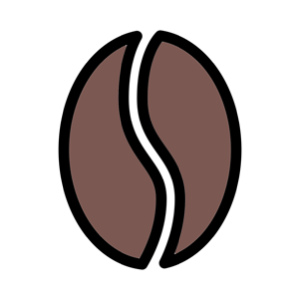
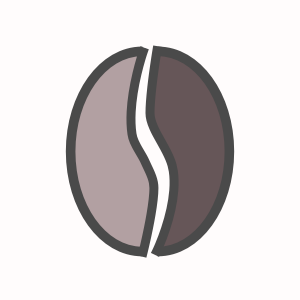
Updated design to new color scheme. Enabled the app store download button.

Changed region(s): [[0.18, 0.09, 0.81, 0.9]]

diff --git a/css/gumby.css b/css/gumby.css
@@ -8939,10 +8939,10 @@ input::-moz-focus-inner {
   -moz-background-size: cover;
   -o-background-size: cover;
   background-size: cover;
-  background-color: #C82506;
+  background-color: #665658;
   width: 100%;
   color: #F5F5F5;
-  border-top: 5px solid #28170D;
+  border-top: 5px solid #B2A0A2;
 }
 
 .logo {
@@ -9135,8 +9135,8 @@ input::-moz-focus-inner {
   }
 }
 .features-item:hover .features-circle {
-  background-color: #C82506;
-  border-color: #9C2506;
+  background-color: #B2A0A2;
+  border-color: #665658;
   border-width: 8px;
 }
 .features-item:hover .features-circle-icon {
@@ -9170,11 +9170,11 @@ input::-moz-focus-inner {
   display: block;
   position: relative;
   border-radius: 50%;
-  background-color: #C82506;
+  background-color: #665658;
   width: 180px;
   height: 180px;
   margin: 0 auto 30px auto;
-  border: 6px solid rgba(144, 41, 77, 0.3);
+  border: 6px solid rgba(178, 160, 162, 0.3);
   -webkit-transition: all 0.3s ease;
   -moz-transition: all 0.3s ease;
   -o-transition: all 0.3s ease;
@@ -9284,6 +9284,10 @@ input::-moz-focus-inner {
   }
 }
 
+.appstore-logo {
+	margin-top: 50px;
+}
+
 .testimonial-details {
   width: 70%;
   padding-left: 25px;
@@ -9313,7 +9317,7 @@ input::-moz-focus-inner {
 *****************************************************/
 .section-signup {
 	
-  background-color: #C82506;
+  background-color: #665658;
   text-align: center;
 }
 
@@ -9337,7 +9341,7 @@ input::-moz-focus-inner {
   margin-right: 3%;
 }
 .signup-form2 .input-side:focus {
-  border-color: #9C2506;
+  border-color: #B2A0A2;
 }
 @media screen and (max-width: 540px) {
   .signup-form2 .input-side {
@@ -9346,16 +9350,16 @@ input::-moz-focus-inner {
 }
 .signup-form2 .btn-side {
   width: 30%;
-  background-color: #9C2506;
+  background-color: #B2A0A2;
   border: 5px solid #fff;
 }
 .signup-form2 .btn-side:hover {
-  border-color: #9C2506;
-  background-color: #C82506;
+  border-color: #D8CBCD;
+  background-color: #665658;
 }
 .signup-form2 .btn-side:active {
-  border-color: #C82506;
-  background-color: #9C2506;
+  border-color: #D8CBCD;
+  background-color: #B2A0A2;
 }
 @media screen and (max-width: 540px) {
   .signup-form2 .btn-side {
@@ -9372,7 +9376,7 @@ input::-moz-focus-inner {
   margin-right: 3%;
 }
 .signup-form .input-side:focus {
-  border-color: #5680cf;
+  border-color: #B2A0A2;
 }
 @media screen and (max-width: 540px) {
   .signup-form .input-side {
@@ -9385,12 +9389,12 @@ input::-moz-focus-inner {
   border: 5px solid #fff;
 }
 .signup-form .btn-side:hover {
-  border-color: #c43869;
+  border-color: #B2A0A2;
   background-color: #c43869;
 }
 .signup-form .btn-side:active {
-  border-color: #a8305a;
-  background-color: #a8305a;
+  border-color: #B2A0A2;
+  background-color: #B2A0A2;
 }
 @media screen and (max-width: 540px) {
   .signup-form .btn-side {
@@ -9403,11 +9407,11 @@ input::-moz-focus-inner {
 * Site Footer 
 *****************************************************/
 .site-footer {
-  background-color: #28170D;
+  background-color: #B2A0A2;
   padding: 50px 0;
 }
 .site-footer h1, .site-footer h2, .site-footer h3, .site-footer h4, .site-footer h5, .site-footer h6 {
-  color: #f9e9ee;
+  color: #FFFCFC;
 }
 
 .footer-info {
@@ -9419,7 +9423,7 @@ input::-moz-focus-inner {
     font-size: 10px;
 }
 .footer-support:hover p{
-   color: #C82506;
+   color: #D8CBCD;
 }
 .footer-copyright {
   font-weight: 300;
@@ -9500,7 +9504,7 @@ footer-support-link:hover {
   transition: color 0.3s ease;
 }
 .social-link:hover {
-  color: #9C2506;
+  color: #D8CBCD;
 }
 
 .social-engagement-wrapper {

diff --git a/index.html b/index.html
@@ -66,7 +66,7 @@
 				
 				<div class="mediabox-logo"><img src="img/logo300x300.png" alt=""></div>
 				<h1 class="logo">FineGrind</span></h1>
-				<h2 class="logo">(Coming Soon)</h2>
+				<!-- <h2 class="logo">(Coming Soon)</h2> -->
 				<p>Track and rate your coffee bean purchases in one place, helping you remember what you love and what you'd rather leave on the shelf.
 
 					<br>
@@ -114,10 +114,10 @@
 			<!-- START: Graphic -->
 			<div class="six columns header-graphic-wrap fadeInRight">
 				<img class="header-graphic" src="img/screenshot.png" alt="">
-				<!--
-				<a href="http://bitly.com/mediaboxios" target="_new"><img class="appstore-logo" src="img/Download_on_the_App_Store_Badge_US-UK_135x40.png" alt="download in app store badge"></a>
+				
+				<a href="https://itunes.apple.com/us/app/finegrind/id939825717?ls=1&mt=8" target="_new"><img class="appstore-logo" src="img/Download_on_the_App_Store_Badge_US-UK_135x40.png" alt="download in app store badge"></a>
 			</div>
-			   -->
+			   
 			<!-- /END: Graphic -->
 		</div>
 	</header>
